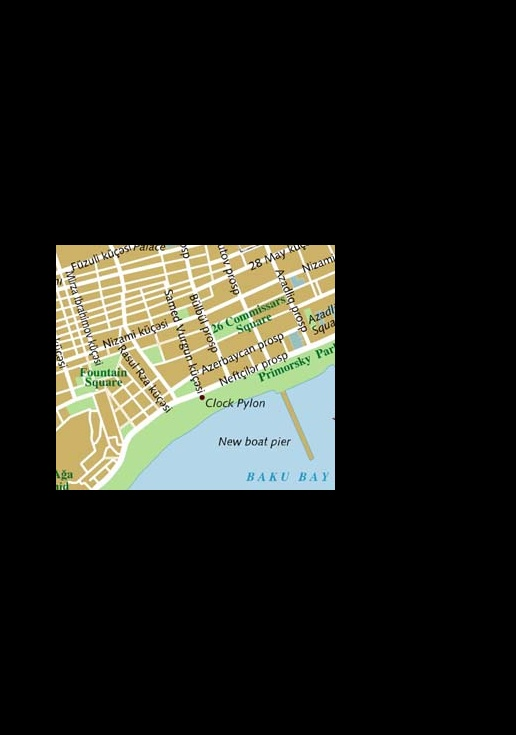
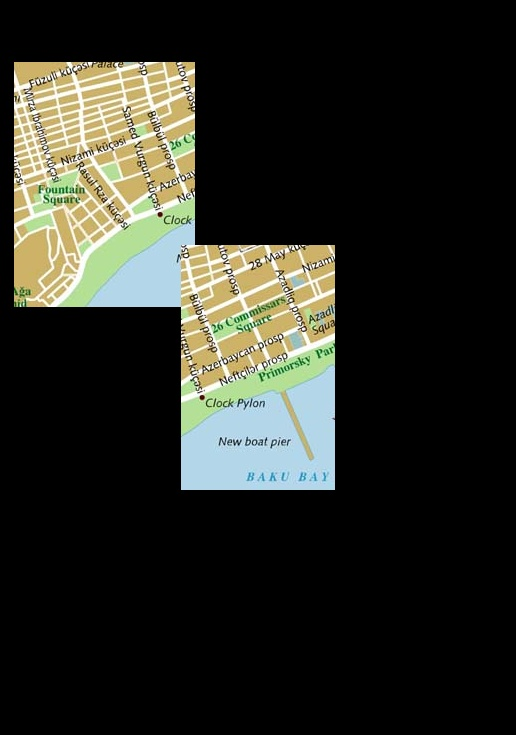
rotation added, with erros to bi fixed

Changed region(s): [[0.0, 0.0599, 0.4031, 0.6884]]

diff --git a/ImageStitcher.py b/ImageStitcher.py
@@ -21,6 +21,7 @@ class ImageStitcher:
             self.img2 = cv2.resize(self.img2,None,fx=0.1,fy=0.1)
         self.h1, self.w1 = self.img1.shape[:2]
         self.h2, self.w2 = self.img2.shape[:2]
+
         print("H1: ",self.h1,"  W1: ",self.w1,"\nH2: ",self.h2,"  W2: ",self.w2)
         
 
@@ -44,14 +45,18 @@ class ImageStitcher:
         return {'x5':x5,'y5':y5,'x6':x6,'y6':y6}
 
     def calculateLoss(self,SHIFT):
-        SHIFT_X,SHIFT_Y = SHIFT
-        SHIFT_X, SHIFT_Y = int(SHIFT_X*(self.w1+self.w2)),int(SHIFT_Y*(self.h1+self.h2))
-        print("SHIFT_X: ",SHIFT_X,"    SHIFT_Y: ",SHIFT_Y)
+        SHIFT_X,SHIFT_Y, thetha = SHIFT
+        SHIFT_X, SHIFT_Y, thetha = int(SHIFT_X*(self.w1+self.w2)),int(SHIFT_Y*(self.h1+self.h2)),int(thetha*360)
+        print("SHIFT_X: ",SHIFT_X,"    SHIFT_Y: ",SHIFT_Y,"    Angle: ",thetha)
+        #self.drawImage(SHIFT_X,SHIFT_Y)
         if (SHIFT_X>=self.w1+self.w2 or SHIFT_Y>=self.h1+self.h2 or SHIFT_Y<1 or SHIFT_X<1):
             return 255*3*self.w1*self.h1*self.h2*self.w2
-        canvas = np.zeros((self.h1*2+self.h2,self.w1*2+self.w2,3), dtype=np.uint8)
+        
+        canvas = self.rotateImage(thetha)
         canvas[:self.h1,:self.w1,:3] = self.img1
-        canvas[self.h1:self.h2+self.h1, self.w1:self.w1+self.w2,:3] = self.img2
+
+        # cv2.imshow('image',canvas)
+        # cv2.waitKey(500)
 
         coor = self.getIntersectionCoordinates(self.h1,self.w1,self.h2,self.w2,SHIFT_X,SHIFT_Y)
         image1 = canvas[coor['y6']-SHIFT_Y:coor['y5']-SHIFT_Y,coor['x5']-SHIFT_X:coor['x6']-SHIFT_X,:3]
@@ -76,21 +81,21 @@ class ImageStitcher:
         h, w = canvas.shape[:2]
         M = np.float32([[a,b,(1-a)*w/2-b*h/2],[-b,a,b*w/2+(1-a)*h/2],[0,0,1]])
         canvas = cv2.warpPerspective(canvas,M,(w,h))
-        canvas[:self.h1,:self.w1,:3] = self.img1
+        # canvas[:self.h1,:self.w1,:3] = self.img1
         return canvas
 
 
     def mosaicImages(self,n):
         savedParameters = [[],[]]
-        SHIFT_X = 1
-        SHIFT_Y = 1
         intitial_cors_x = np.linspace(0.1,1,n,False)
         intitial_cors_y = np.linspace(0.1,1,n,False)
-        for i in range(n*n):
-            x = intitial_cors_x[i%n]
-            y = intitial_cors_y[int(i/n)]
+        initial_param_thetha = np.linspace(0,1,n,False)
+        for i in range(n*n*n):
+            thetha = initial_param_thetha[int(i/n)]
+            x = intitial_cors_x[i%n%n]
+            y = intitial_cors_y[int(i%n/n)]
             print("Initial Values: ",x,"  ",y)
-            x0 = [x,y]
+            x0 = [x,y,thetha]
             res = minimize(self.calculateLoss,x0, method = 'nelder-mead', options={'disp':True})
             savedParameters[0].append(res.fun)
             savedParameters[1].append(res.x)
@@ -102,4 +107,5 @@ class ImageStitcher:
         print(savedParameters[0][minimumErrorIndex])
         print(savedParameters[1][minimumErrorIndex][0]*(self.w1+self.w2))
         print(savedParameters[1][minimumErrorIndex][1]*(self.w1+self.w2))
+        print(savedParameters[1][minimumErrorIndex][2]*360)
         self.BestX, self.BestY = int(savedParameters[1][minimumErrorIndex][0]*(self.w1+self.w2)),int(savedParameters[1][minimumErrorIndex][1]*(self.h1+self.h2))

diff --git a/main.py b/main.py
@@ -7,7 +7,7 @@ class main:
 
     def mosaic2Images(img1,img2):
         mosaic = ImageStitcher(img1.copy(),img2.copy(),False)
-        mosaic.mosaicImages(10)
+        mosaic.mosaicImages(2)
         mosaic.drawImage(mosaic.BestX,mosaic.BestY)
 
     if __name__=='__main__':
